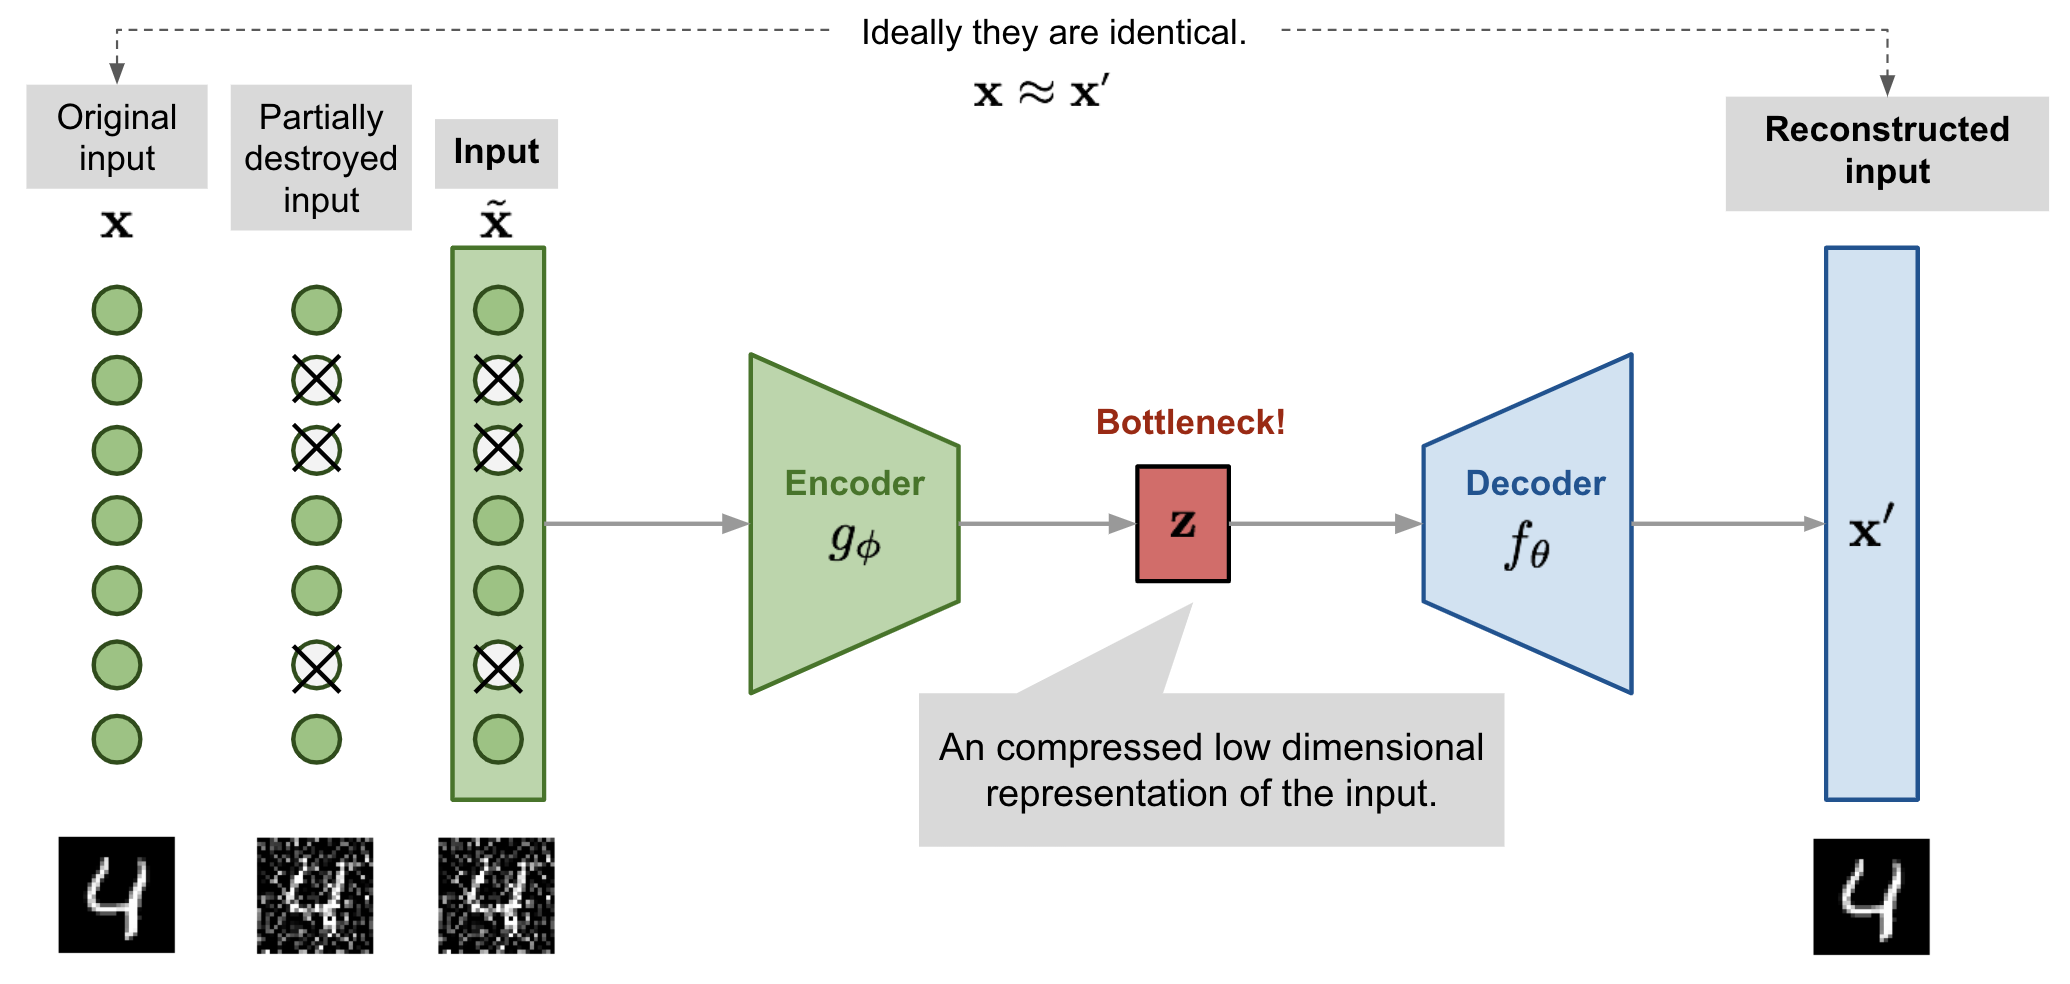
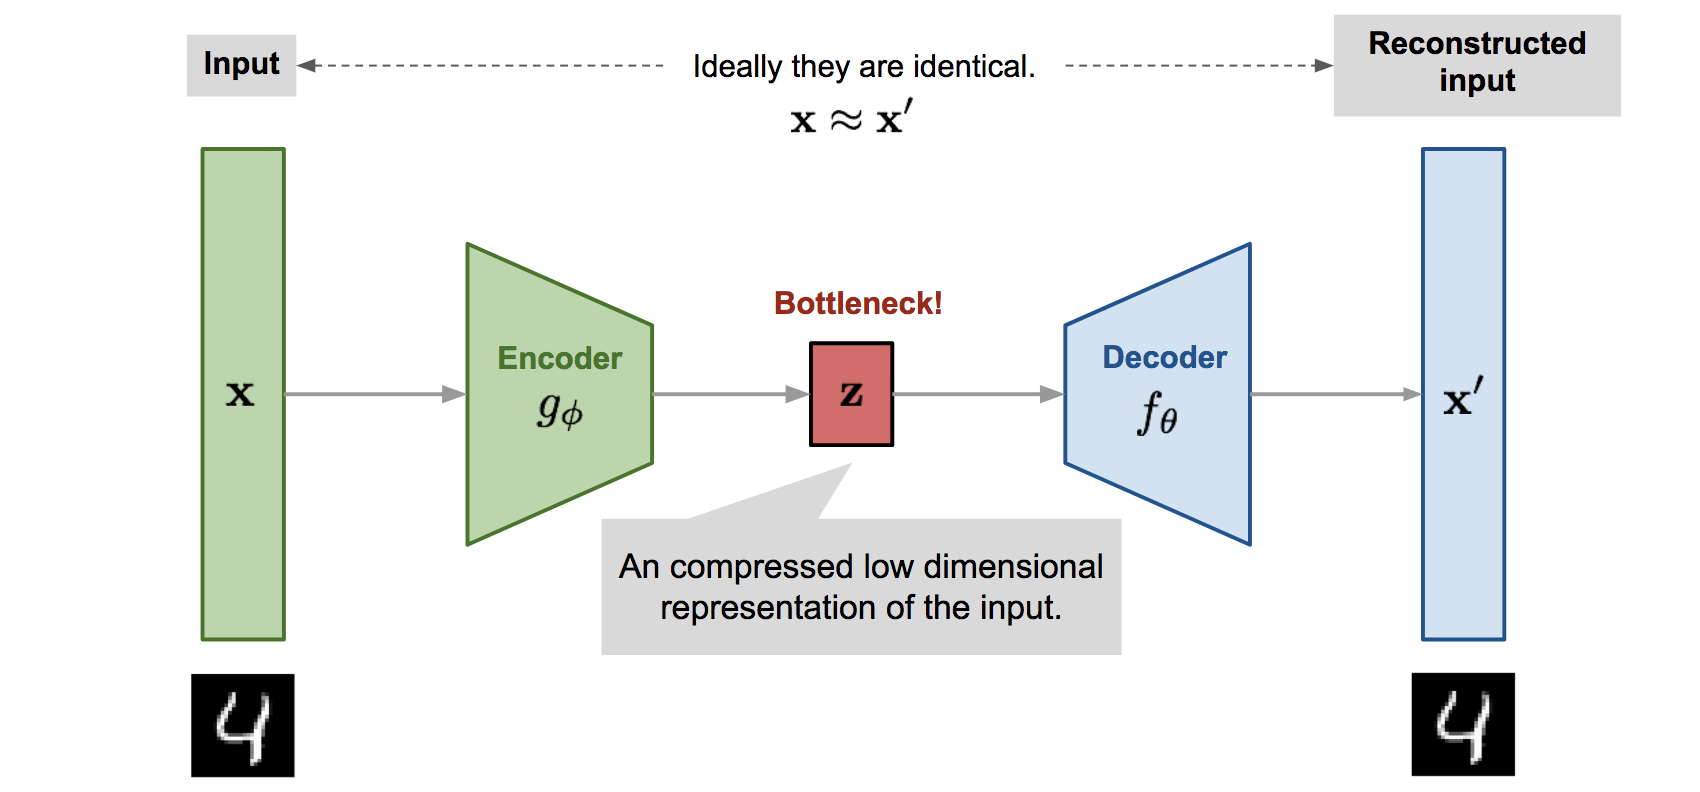
update

diff --git a/source/_posts/自编码器AE.md b/source/_posts/自编码器AE.md
@@ -12,10 +12,13 @@ toc: true
 - 自编码器算法常用做特征提取 
 
 本文按照以下结构进行组织:
-- 普通自编码器AE
+- 自编码器AE
 - 变分自编码器VAE 
 - 降噪自编码器DAE 
 
+### 自编码器AE  
+所谓的自编码器从名称上来理解，便是对自己进行编码，首先给出维基百科上关于自编码器的定义:
+> **自编码器:** 自编码，也称自动编码器，是一种人工神经网络，在无监督学习中用于有效编码。自编码的目的是对一组数据学出一种表示，通常用于降维。 
 
-
-
+一个自编码器一般具有如下结构: 
+![自编码器](https://raw.githubusercontent.com/xuejy19/xuejy19.github.io/source/Img/AE.png)
